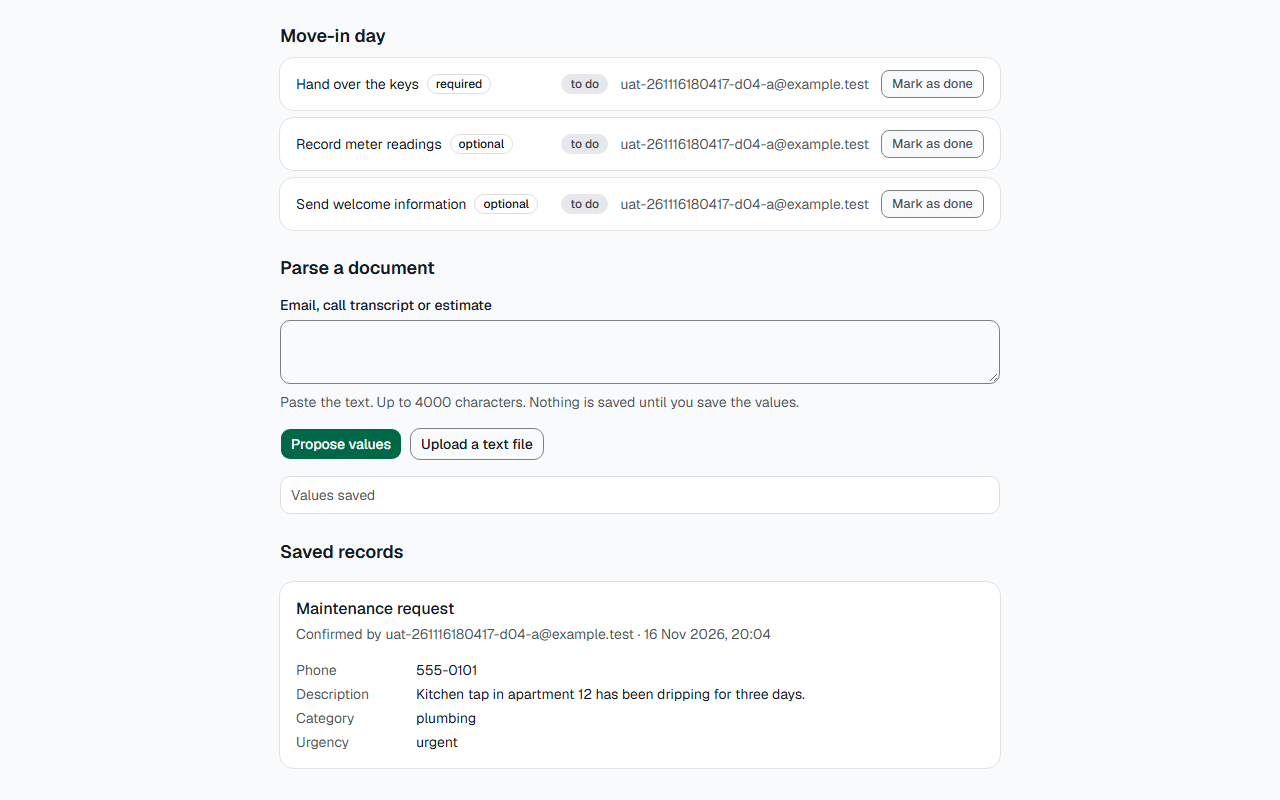
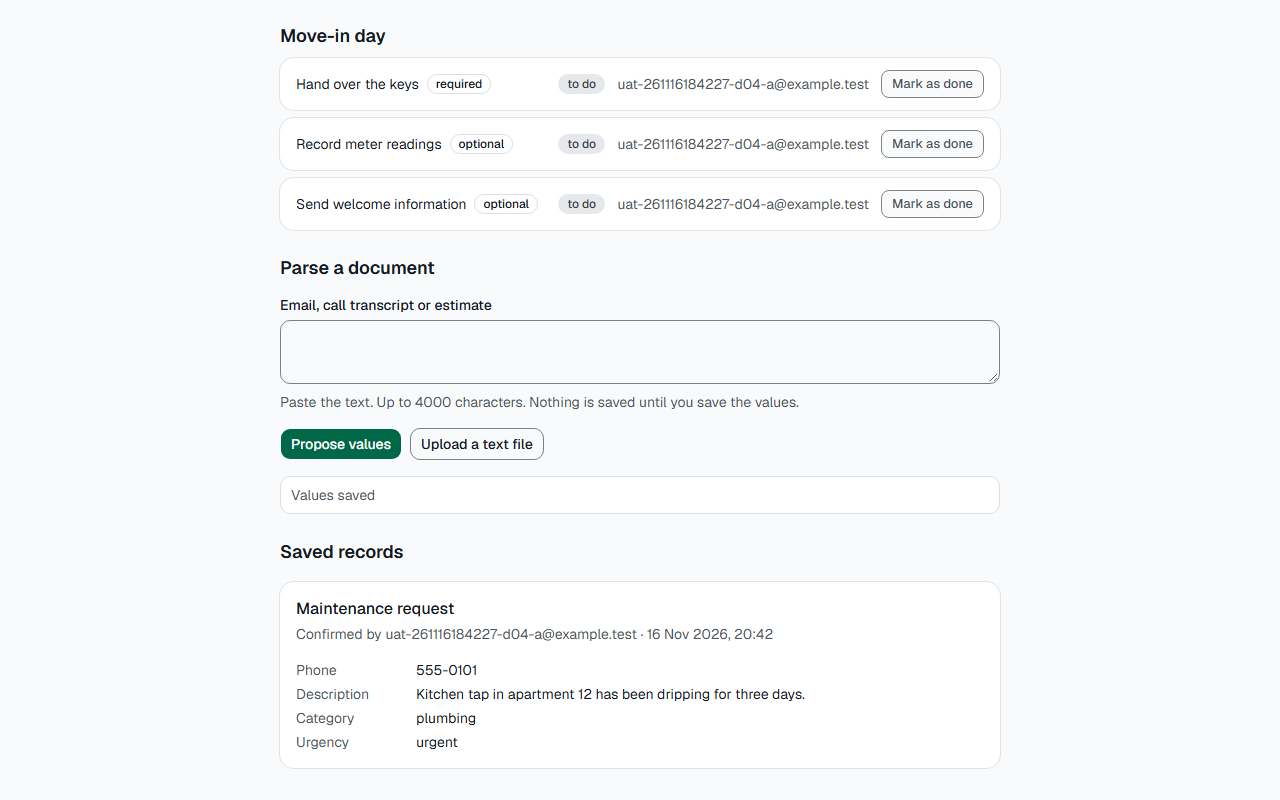
UAT AC-DOCAI-16: повтор Server Action «Propose values» від V і B; блок переживає збій виклику дії (failed → недоступний, помилка збереження); кадр на всю сторінку

diff --git a/tests/e2e/document-parsing.spec.ts b/tests/e2e/document-parsing.spec.ts
@@ -4,7 +4,7 @@
 // AC-DOCAI-04 і AC-DOCAI-09 ходять до справжньої безкоштовної моделі на проді: ліміт — 20 запитів на хвилину й 50 на добу
 // на акаунт, тож їх запускають по одному (`npm run uat -- --url … --grep "AC-DOCAI-04"`). Користувачі й запуски синтетичні
 // (uat-<запуск>-<мітка>@example.test), їх прибирає deleteUatUsers() з ./admin разом із записами документів.
-import { expect, test, type Page } from "@playwright/test";
+import { expect, test, type Browser, type Page } from "@playwright/test";
 import { deleteUatUsers } from "./support/admin";
 import type { UatUser } from "./support/data";
 import { attachRuntimeErrors, given, signIn, thenStep, when } from "./support/uat";
@@ -156,30 +156,83 @@ test(
   },
 );
 
+/** Запит Server Action «Propose values», перехоплений на сторінці менеджера A: адреса, ідентифікатор дії й тіло. */
+type CapturedAction = { url: string; actionId: string; body: string };
+
+async function captureProposeAction(page: Page, runId: string): Promise<CapturedAction> {
+  let captured: CapturedAction | undefined;
+  // Перехоплюємо POST Server Action лише щоб запам'ятати його й пропускаємо далі: запит менеджера A справжній (одне звернення
+  // до моделі), тож сторінка A не отримує мережевої помилки, а сам запит ми повторимо від сесій V і B.
+  await page.route("**/runs/**", async (route) => {
+    const request = route.request();
+    const actionId = request.headers()["next-action"];
+    if (request.method() === "POST" && actionId) {
+      captured = { url: request.url(), actionId, body: request.postData() ?? "" };
+    }
+    return route.continue();
+  });
+  await page.goto(`/runs/${runId}`);
+  await page.getByLabel("Email, call transcript or estimate").fill(LEAK_EMAIL);
+  await page.getByRole("button", { name: "Propose values" }).click();
+  await expect.poll(() => captured, { message: "не вдалося перехопити Server Action «Propose values»" }).toBeDefined();
+  // Чекаємо відповіді A (пропозиція чи «assistant is not available»): навігація посеред запиту дала б помилку сторінки.
+  await expect(page.getByLabel("Phone")).toBeVisible({ timeout: AI_TIMEOUT });
+  await page.unroute("**/runs/**");
+  return captured!;
+}
+
+/** Той самий запит Server Action від імені іншого користувача (його сесія в окремому контексті браузера). */
+async function replayProposeAs(browser: Browser, baseURL: string | undefined, user: UatUser, action: CapturedAction): Promise<string> {
+  const context = await browser.newContext({ baseURL });
+  try {
+    const other = await context.newPage();
+    await signIn(other, user.email, user.password);
+    const response = await context.request.post(action.url, {
+      headers: {
+        "next-action": action.actionId,
+        "content-type": "text/plain;charset=UTF-8",
+        accept: "text/x-component",
+        origin: new URL(action.url).origin, // Server Actions перевіряють Origin (захист від CSRF)
+      },
+      data: action.body,
+    });
+    return await response.text();
+  } finally {
+    await context.close();
+  }
+}
+
 test(
-  'AC-DOCAI-16: vendor V, or manager B who is not the run manager, tries to save values for the run directly, bypassing the pages; no record is saved',
+  'AC-DOCAI-16: vendor V, or manager B who is not the run manager, tries to ask the AI for values or to save values for the run directly, bypassing the pages; they receive no value and no record is saved',
   { tag: ["@uat", "@writes"], annotation: { type: "ac", description: "AC-DOCAI-16" } },
-  async ({ page }) => {
+  async ({ page, browser }) => {
     let managerA!: UatUser;
     let vendorV!: UatUser;
     let managerB!: UatUser;
     let runId!: string;
-    const rejected: Record<string, boolean> = {};
+    let action!: CapturedAction;
+    const answers: Record<string, string> = {};
+    const rejectedSave: Record<string, boolean> = {};
 
     await given('vendor V, or manager B who is not the run manager, in the run "Apartment 12, move-in"', async () => {
       managerA = await createUatUser("d16-a", "manager");
       vendorV = await createUatUser("d16-v", "vendor");
       managerB = await createUatUser("d16-b", "manager");
       runId = await launchUatRun(managerA, "Apartment 12, move-in", { vendor: vendorV, taskNumbers: [3, 4] });
+      await signedInAs(page, managerA);
+      action = await captureProposeAction(page, runId);
     });
     await when("they try to ask the AI for values or to save values for this run directly, bypassing the pages of the application", async () => {
+      const baseURL = test.info().project.use.baseURL;
       for (const [who, user] of [["V", vendorV], ["B", managerB]] as const) {
+        // 1) прямий запит значень: той самий Server Action, що викликає кнопка «Propose values», але з сесією V чи B;
+        answers[who] = await replayProposeAs(browser, baseURL, user, action);
+        // 2) прямий запис значень у базу (Data API) із сесією V чи B.
         const client = await userClient(user);
-        const { data: canManage } = await client.rpc("can_manage_run", { p_run_id: runId });
         const { error } = await client
           .from("run_document_values")
           .insert({ run_id: runId, kind: "request", values: { phone: "555-0101", description: null, category: null, urgency: null } });
-        rejected[who] = canManage !== true && error !== null;
+        rejectedSave[who] = error !== null;
       }
     });
 
@@ -187,19 +240,28 @@ test(
       page,
       {
         clause: 'They receive no value, no record is saved, and they see the message "Not enough rights".',
-        visible: ["the page of the run of manager A shows no saved record after the direct requests"],
+        visible: ['the end of the page of the run of manager A: under the block "Parse a document" there is no section "Saved records" and no record after the direct requests'],
         hidden: [
-          "the check of the right on the run answered no for V and for B",
-          "the direct insert was refused by the database for V and for B",
-          'the message "Not enough rights" of a refused Server Action is proved by tests/document-actions.test.ts (the direct request has no screen)',
+          'the Server Action that asks the AI for values answered {"status":"forbidden"} for V and for B, without any proposal (the model is not called)',
+          "the direct insert of values was refused by the database for V and for B",
+          'the page shows "Not enough rights" for the status "forbidden" of a Server Action: proved by src/lib/ai/block-state.test.ts and tests/document-actions.test.ts (a direct request has no screen)',
         ],
       },
       async () => {
-        expect(rejected, "прямі запити мали бути відхилені для V і для B").toEqual({ V: true, B: true });
+        for (const who of ["V", "B"]) {
+          expect(answers[who], `${who}: Server Action мав відповісти forbidden`).toContain('"status":"forbidden"');
+          expect(answers[who], `${who}: жодної пропозиції`).not.toContain('"proposal"');
+        }
+        expect(rejectedSave, "прямий запис значень мав бути відхилений для V і для B").toEqual({ V: true, B: true });
         await signedInAs(page, managerA);
         await page.goto(`/runs/${runId}`);
         await expect(page.getByRole("heading", { level: 2, name: "Parse a document" })).toBeVisible();
         await expect(page.getByTestId("document-record")).toHaveCount(0);
+        await expect(page.getByRole("heading", { name: "Saved records" })).toHaveCount(0);
+        // Кадр «Тоді» — лише видима частина вікна: робимо вікно вищим, щоб уся сторінка з порожнім місцем під блоком була в кадрі
+        // і було видно, що розділу «Saved records» нижче немає.
+        await page.setViewportSize({ width: 1280, height: 1300 });
+        await page.evaluate(() => window.scrollTo(0, document.body.scrollHeight));
       },
     );
   },

diff --git a/src/lib/ai/block-state.ts b/src/lib/ai/block-state.ts
@@ -1,4 +1,4 @@
-import { EMPTY_MESSAGE, type Proposal } from "./parse";
+import { EMPTY_MESSAGE, UNAVAILABLE_MESSAGE, type Proposal } from "./parse";
 import type { TextFileResult } from "./text-file";
 
 // Стан блоку «Parse a document» як чиста функція (вимога PM solomchaak/property-workflows-spec#59): так його перевіряють без
@@ -28,6 +28,7 @@ export type BlockAction =
   | { type: "propose" }
   | { type: "proposed"; proposal: Proposal }
   | { type: "denied" }
+  | { type: "failed" } // виклик дії не вдався (мережа): те саме, що «помічник недоступний» (AC-DOCAI-13)
   | { type: "discard" }
   | { type: "file"; result: TextFileResult }
   | { type: "save_result"; status: Exclude<BlockStatus, null> };
@@ -47,6 +48,8 @@ export function blockReducer(state: BlockState, action: BlockAction): BlockState
       return { ...state, reading: true, status: null, fileError: null, proposal: null };
     case "proposed":
       return { ...state, reading: false, proposal: shown(state, action.proposal) };
+    case "failed":
+      return { ...state, reading: false, proposal: shown(state, { state: "unavailable", reason: "provider_error", message: UNAVAILABLE_MESSAGE }) };
     case "denied":
       return { ...state, reading: false, status: "denied" };
     case "discard":

diff --git a/src/app/runs/[id]/document-parser.tsx b/src/app/runs/[id]/document-parser.tsx
@@ -21,14 +21,22 @@ export function DocumentParser({ runId }: { runId: string }) {
   const propose = async () => {
     dispatch({ type: "propose" });
     if (state.text.trim() === "") return; // AC-DOCAI-11: до моделі не звертаємось
-    const result = await proposeDocumentValues(runId, state.text);
-    dispatch(result.status === "ok" ? { type: "proposed", proposal: result.proposal } : { type: "denied" });
+    try {
+      const result = await proposeDocumentValues(runId, state.text);
+      dispatch(result.status === "ok" ? { type: "proposed", proposal: result.proposal } : { type: "denied" });
+    } catch {
+      dispatch({ type: "failed" }); // мережа чи сервер не відповіли: ручна форма, а не вічне «Reading the document…»
+    }
   };
 
   const save = (saved: SavedValues) =>
     startSaving(async () => {
-      const result = await confirmDocumentValues(runId, saved.kind, saved.values);
-      dispatch({ type: "save_result", status: SAVE_STATUS[result.status] });
+      try {
+        const result = await confirmDocumentValues(runId, saved.kind, saved.values);
+        dispatch({ type: "save_result", status: SAVE_STATUS[result.status] });
+      } catch {
+        dispatch({ type: "save_result", status: "error" });
+      }
     });
 
   return (

diff --git a/src/lib/ai/block-state.test.ts b/src/lib/ai/block-state.test.ts
@@ -58,6 +58,13 @@ describe("стан блоку «Parse a document»", () => {
     expect(state.proposal).toBeNull();
   });
 
+  it("AC-DOCAI-13: виклик дії не вдався (мережа) — очікування знято й показано «assistant is not available», а не вічне «Reading…»", () => {
+    const state = run([{ type: "text", text: "x" }, { type: "propose" }, { type: "failed" }]);
+
+    expect(state.reading).toBe(false);
+    expect(state.proposal?.value).toMatchObject({ state: "unavailable", message: "The assistant is not available now. Fill in the values yourself." });
+  });
+
   it("AC-DOCAI-04: після збереження блок порожній, а повідомлення «Values saved» показано", () => {
     const state = run([{ type: "text", text: "x" }, { type: "propose" }, { type: "proposed", proposal: okProposal }, { type: "save_result", status: "saved" }]);
 
